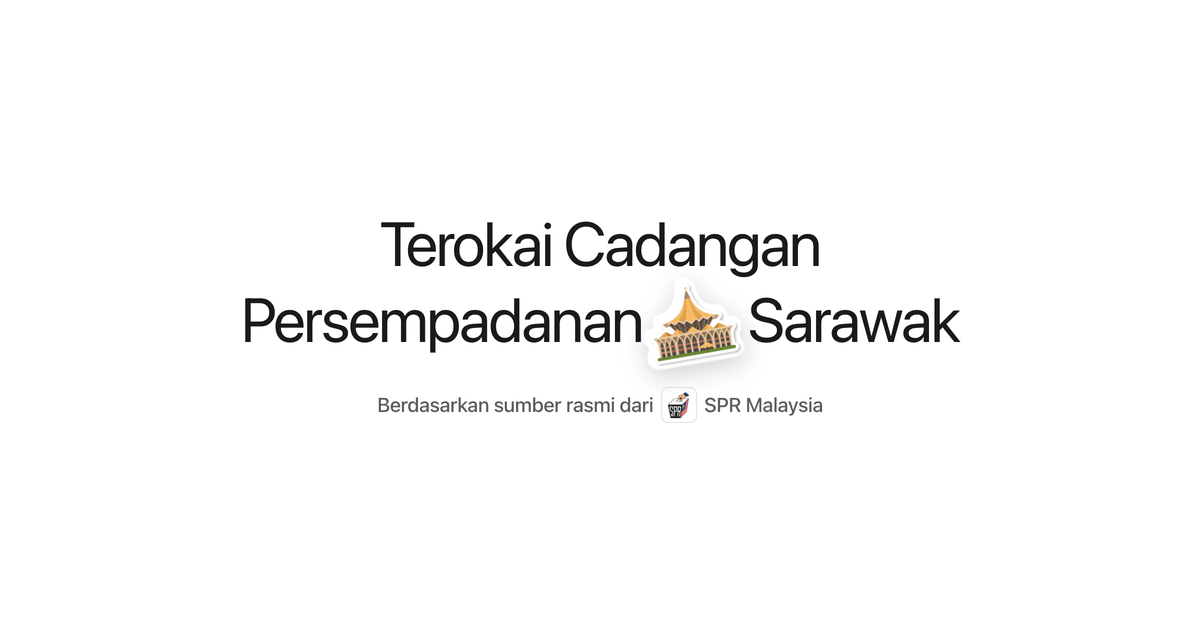
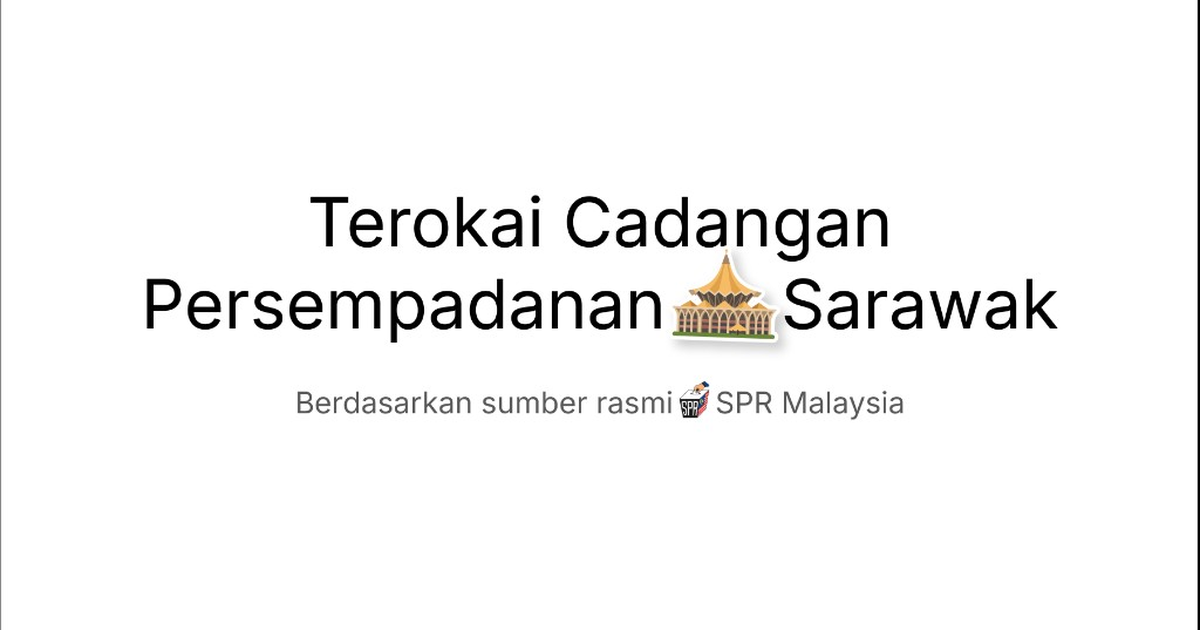
Let the summary read as three headline counts instead of a dense four-up table, keep the Dewan mark upright, and use the new share graphic so previews match the page.

Changed region(s): [[0.1233, 0.3016, 0.8942, 0.6635], [0.9867, 0.0, 1.0, 1.0]]

diff --git a/index.html b/index.html
@@ -13,7 +13,7 @@
 <meta property="og:image" content="https://aaronagai.com/SarawakSeats/og-image.png">
 <meta property="og:image:width" content="1200">
 <meta property="og:image:height" content="630">
-<meta property="og:image:alt" content="Terokai Cadangan Persempadanan Sarawak, berdasarkan sumber rasmi dari SPR Malaysia">
+<meta property="og:image:alt" content="Terokai Cadangan Persempadanan Sarawak, berdasarkan sumber rasmi SPR Malaysia">
 <link rel="canonical" href="https://aaronagai.com/SarawakSeats/">
 <meta name="twitter:card" content="summary_large_image">
 <meta name="twitter:image" content="https://aaronagai.com/SarawakSeats/og-image.png">
@@ -147,7 +147,6 @@ h1{
 .h1-mark{
   display:inline-block; height:1.5em; width:auto;
   vertical-align:-.38em; margin:0 .02em 0 .06em;
-  transform:rotate(11deg); transform-origin:50% 92%;
 }
 /* the mark and the word after it are one unit — Chrome will otherwise break
    between them and strand the building at the end of a line */
@@ -162,22 +161,27 @@ h1{
 
 /* ---------- stat row ---------- */
 .stats{
-  display:grid; grid-template-columns:repeat(4, minmax(0,1fr));
-  border-top:1px solid var(--rule); border-bottom:1px solid var(--rule);
-  margin-top:28px;
+  display:grid; grid-template-columns:repeat(3, minmax(0,1fr));
+  margin-top:36px; padding:36px 0 32px;
 }
-.stat{padding:18px 20px 17px; display:flex; flex-direction:column; gap:5px; min-width:0; border-left:1px solid var(--rule)}
-.stat:first-child{border-left:0}
-.stat .k{
-  font-family:var(--sans); font-size:10px; font-weight:500;
-  letter-spacing:.16em; text-transform:uppercase; color:var(--muted);
+.stat{
+  margin:0; min-width:0; padding:0 10px;
+  display:flex; flex-direction:column; align-items:center; gap:8px;
+  text-align:center;
 }
-.stat .v{
-  font-family:var(--sans); font-size:27px; font-weight:400;
-  font-variant-numeric:lining-nums tabular-nums; letter-spacing:-.018em;
-  line-height:1.15; color:var(--ink);
+.stat-val{
+  margin:0; font-family:var(--sans); font-weight:600;
+  font-size:clamp(1.55rem, 1.05rem + 2.4vw, 2.7rem);
+  font-variant-numeric:lining-nums tabular-nums;
+  letter-spacing:-.03em; line-height:1.05; color:var(--ink);
+  white-space:nowrap;
 }
-.stat .s{font-size:11.5px; color:var(--muted); line-height:1.45; overflow-wrap:break-word}
+.stat-val span{color:var(--muted); font-weight:500; font-size:.55em; letter-spacing:-.01em}
+.stat figcaption{
+  font-family:var(--sans); font-weight:400;
+  font-size:clamp(12px, .68rem + .28vw, 15px);
+  line-height:1.35; letter-spacing:-.015em; color:var(--ink-2);
+}
 
 /* ---------- controls ---------- */
 .controls{
@@ -186,21 +190,27 @@ h1{
   border-bottom:1px solid var(--rule);
   display:flex; flex-wrap:wrap; gap:8px; align-items:center;
 }
-.search{position:relative; flex:1 1 250px; min-width:210px}
+.search{
+  position:relative; flex:1 1 0%; min-width:0;
+}
+.search::after{
+  content:""; position:absolute; left:0; right:0; bottom:0;
+  height:1px; background:var(--rule); pointer-events:none;
+}
 .search svg{
   position:absolute; left:0; top:50%; transform:translateY(-50%);
   width:16px; height:16px; color:var(--muted); pointer-events:none;
 }
 input[type=search]{
-  width:100%; font-family:var(--sans); font-size:15px; color:var(--ink);
-  background:none; border:0; border-bottom:1px solid var(--rule);
-  border-radius:0; padding:8px 0 8px 26px; height:38px;
-  appearance:none; outline:none; text-overflow:ellipsis;
+  width:100%; min-width:0; font-family:var(--sans); font-size:15px; line-height:1.2; color:var(--ink);
+  background:none; border:0; border-radius:0; box-shadow:none;
+  padding:10px 0 10px 26px; height:40px;
+  appearance:none; -webkit-appearance:none; outline:none; text-overflow:ellipsis;
 }
 input[type=search]::placeholder{color:var(--muted)}
 input[type=search]::-webkit-search-cancel-button,
 input[type=search]::-webkit-search-decoration{appearance:none}
-.search:focus-within input[type=search]{border-bottom-color:var(--ink)}
+.search:focus-within::after{background:var(--ink)}
 select{
   font-family:var(--sans); font-size:10.5px; font-weight:500;
   letter-spacing:.13em; text-transform:uppercase; color:var(--ink);
@@ -306,12 +316,6 @@ footer{
 .foot-copy a{color:var(--ink-2); text-decoration:underline; text-underline-offset:3px}
 .foot-copy a:hover{color:var(--ink)}
 
-@media (max-width:879px){
-  .stats{grid-template-columns:repeat(2, minmax(0,1fr))}
-  .stat{border-left:1px solid var(--rule)}
-  .stat:nth-child(odd){border-left:0}
-  .stat:nth-child(n+3){border-top:1px solid var(--rule)}
-}
 @media (max-width:640px){
   .wrap{
     padding-left:max(16px, env(safe-area-inset-left, 0px));
@@ -322,11 +326,9 @@ footer{
   .hero-ctas{margin-top:18px; flex-direction:column; align-items:stretch; width:min(100%, 22rem)}
   .cta{width:100%}
   .kicker{font-size:13px}
-  .stats{margin-top:20px}
-  .stat{padding:14px 16px 13px 0}
-  .stat:nth-child(even){padding-left:16px; padding-right:0}
-  .stat .v{font-size:24px}
-  .dun{scroll-margin-top:calc(56px + env(safe-area-inset-top, 0px))}
+  .stats{margin-top:20px; padding:22px 0 18px}
+  .stat{padding:0 4px; gap:6px}
+  .dun{scroll-margin-top:calc(72px + env(safe-area-inset-top, 0px))}
   .dhead{grid-template-columns:54px minmax(0,1fr) auto; gap:12px; padding:16px 2px; min-height:52px}
   .dname{font-size:18px}
   .pdbar{display:none}
@@ -337,11 +339,11 @@ footer{
   /* Sticky toolbar: underline search is always visible; parlimen/sort stay icons */
   .controls{
     flex-wrap:nowrap; gap:2px; justify-content:flex-start;
-    padding:8px 0 10px; min-height:52px;
+    padding:8px 0 14px;
   }
   .search{
-    flex:1 1 auto; min-width:0; width:auto; height:auto;
-    margin-right:6px;
+    flex:1 1 0%; min-width:0; width:auto; height:auto;
+    margin-right:8px;
   }
   .search svg{
     left:0; width:16px; height:16px; color:var(--muted);
@@ -349,14 +351,13 @@ footer{
   }
   .search input{
     position:static; z-index:auto;
-    width:100%; height:38px; padding:8px 0 8px 26px;
-    border:0; border-bottom:1px solid var(--rule);
-    font-size:16px; cursor:text;
-    color:var(--ink); caret-color:auto; background:transparent;
+    width:100%; min-width:0; height:40px; padding:10px 0 10px 26px;
+    border:0; font-size:16px; line-height:1.2; cursor:text;
+    color:var(--ink); caret-color:auto; background-color:transparent;
   }
   .search input::placeholder{color:var(--muted)}
   .ctrl-select{
-    flex:0 0 48px; width:48px; height:44px;
+    flex:0 0 40px; width:40px; min-width:40px; max-width:40px; height:40px;
     align-items:center; justify-content:center;
   }
   .ctrl-face{
@@ -380,10 +381,6 @@ footer{
   .ctrl-select select:hover{border:0}
 }
 @media (max-width:359px){
-  .stats{grid-template-columns:1fr}
-  .stat{border-left:0; border-top:1px solid var(--rule); padding:14px 0}
-  .stat:first-child{border-top:0}
-  .stat:nth-child(even){padding-left:0}
   .kicker{white-space:normal; flex-wrap:wrap; row-gap:6px}
 }
 /* ---------- Sticky reveal sign-off ----------
@@ -455,10 +452,18 @@ body.has-reveal .page{
 <div class="wrap">
 
   <section class="stats" aria-label="Ringkasan">
-    <div class="stat"><span class="k">Bahagian Negeri</span><span class="v">99</span><span class="s">DUN dicadangkan &middot; tambah 17</span></div>
-    <div class="stat"><span class="k">Daerah Mengundi</span><span class="v">1,141</span><span class="s">dalam 31 bahagian parlimen</span></div>
-    <div class="stat"><span class="k">Jumlah Pemilih</span><span class="v">2,037,648</span><span class="s">Daftar Pemilih 29 Jan 2026</span></div>
-    <div class="stat"><span class="k">Purata Satu DUN</span><span class="v">20,582</span><span class="s">terkecil 10,372 &middot; terbesar 34,546</span></div>
+    <figure class="stat">
+      <p class="stat-val">99 <span>(+17)</span></p>
+      <figcaption>Jumlah DUN</figcaption>
+    </figure>
+    <figure class="stat">
+      <p class="stat-val">1,141</p>
+      <figcaption>Daerah Mengundi</figcaption>
+    </figure>
+    <figure class="stat">
+      <p class="stat-val">~2.03M</p>
+      <figcaption>Jumlah Pengundi</figcaption>
+    </figure>
   </section>
 
   <div class="controls">
